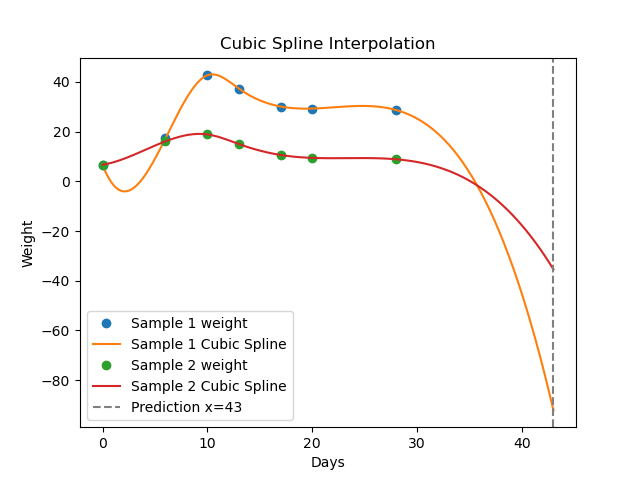
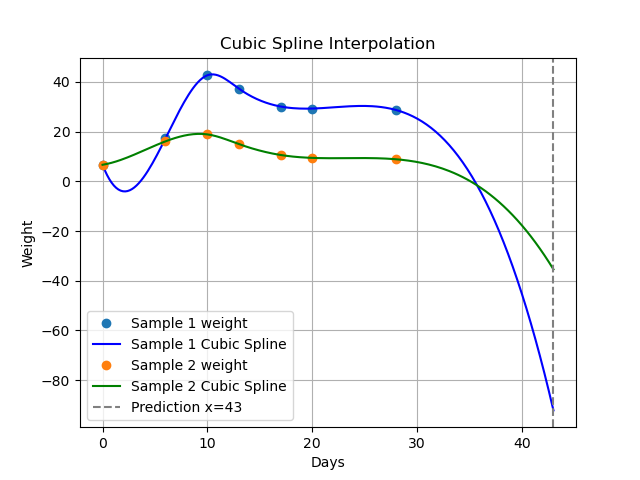
2

diff --git a/Programming/Chapter2/report.tex b/Programming/Chapter2/report.tex
@@ -30,6 +30,7 @@
 \maketitle
 
 \begin{abstract}
+  This report presents the design and implementation of interpolation algorithms, including Newton's interpolation, Hermite interpolation, and Bezier interpolation. The Runge phenomenon is discussed, and the Chebyshev interpolation method is applied to mitigate the issue. The Hermite interpolation algorithm is used to solve a problem involving a car's position and velocity. The interpolation algorithms are applied to fit data on larvae survival, and the cubic spline interpolator and exponential fitting are used to improve the results. Finally, the Bezier interpolation algorithm is used to fit a heart-shaped curve.
 \end{abstract}
 
 % ============================================
@@ -119,6 +120,7 @@ First, I generate the Chebyshev nodes in the interval \([-1, 1]\) and evaluate t
     \caption{Chebyshev interpolation}
     \label{fig:chebyshev}
 \end{figure}
+
 From the plot, we can observe that the interpolating polynomial using Chebyshev nodes exhibits less oscillation near the endpoints of the interval \([-1, 1]\) compared to the interpolating polynomial using equidistant nodes.
 
 \section{D. Hermite Interpolation}
@@ -131,12 +133,12 @@ I implemented the Hermite interpolation algorithm and following is the result:
 In the second question, I use the secant to subtitute the slope of the function, in other words, I use mean velocity to subtitute velocity. And by Langrange mean value theorem, we can know that the car reached 81.2615 feet/second at some moment between 6.678 and 6.679 seconds.
 
 \section{E. larvae survival}
-using the newton interpolation, we can get the result:
+First, I try to use Newton interpolation to fit the data. The result is shown in Figure \ref{fig:larvae28} and Figure \ref{fig:larvae43}.
 \begin{figure}[ht]
   \centering
   \begin{minipage}[b]{0.45\textwidth}
     \centering
-    \includegraphics[width=\textwidth]{figures/larave28days.png}
+    \includegraphics[width=\textwidth]{figures/larvae28days.png}
     \caption{Larvae's weight in 28 days with Newton interpolation}
     \label{fig:larvae28}
   \end{minipage}
@@ -147,13 +149,92 @@ using the newton interpolation, we can get the result:
     \caption{Larvae's weight in 43 days with Newton interpolation}
     \label{fig:larvae43}
   \end{minipage}
+  \vfill
+  \begin{minipage}[b]{0.45\textwidth}
+    \centering
+    \includegraphics[width=\textwidth]{figures/cubicspline.png}
+    \caption{Larvae's weight in 43 days with cubic spline interpolation}
+    \label{fig:larvaeCubicSpline}
+  \end{minipage}
+  \hfill
+  \begin{minipage}[b]{0.45\textwidth}
+    \centering
+    \includegraphics[width=\textwidth]{figures/expfit.png}
+    \caption{Exponential fitting}
+    \label{fig:expfit}
+  \end{minipage}
 \end{figure}
 
-From Figure \ref{fig:larvae28}, we can observe that overfitting occurs, and sample 1 even shows negative weight values in the first five days.\\
-In Figure \ref{fig:larvae43}, we can see that data in 43 day results in even greater deviations. This is because we should not use interpolation polynomials to estimate points beyond the range of our data.
+From Figure \ref{fig:larvae28}, we can observe that overfitting occurs, and sample 1 even shows negative weight values in the first five days.
 
-To fix this
+In Figure \ref{fig:larvae43}, we can see that weight in 43 day shows in even greater deviations. This is because we should not use interpolation polynomials to estimate points beyond the range of our data.
+
+To fix this, I tried to use the cubic spline interpolator, and the result is shown in Figure \ref{fig:larvaeCubicSpline}. It is much better than the Newton interpolator, but it still shows some problems.
+
+Finally, I found that the last part of the data can be better fitted using an exponential function plus a constant, as shown in Figure \ref{fig:expfit}. This method provides a better fit for the data, leading us to conclude that sample 1 will not die in 43 days, while sample 2 will.
+
+Unfortunately, I did not implement the cubic spline interpolator and exponential fit in this homework. These parts of the code were generated using Python with the assistance of ChatGPT-4.
+\section{F. Bezier Interpolation}
+First, I noticed that the function graph of the heart-shaped curve is symmetric about the y-axis, so I only considered the part where \( x \geq 0 \) during interpolation, and then obtained the entire heart-shaped curve through symmetry. At this point, the equation of the function can be simplified to \( x^2 + \left(\frac{3}{2}y - \sqrt{x}\right)^2 = 3 \).
+
+To correctly use Algorithm 2.74, I first parameterized the points on the heart-shaped curve:
+\[
+\begin{cases}
+  x = \sqrt{3} \sin(\pi t), \\
+  \frac{3}{2}y - \sqrt{x} = \sqrt{3} \cos(\pi t)
+\end{cases}
+\implies
+\begin{cases}
+  x = \sqrt{3} \sin(\pi t), \\
+  y = \frac{2}{3} \left( \sqrt{3} \cos(\pi t) + \sqrt{x} \right)
+\end{cases}
+\]
+where \( t \in [0, 1] \).
+
+Taking the derivatives, we get:
+\[
+\begin{cases}
+  \frac{dx}{dt} &= \sqrt{3} \cos(\pi t), \\
+  \frac{dy}{dt} &= -\frac{2}{3} \left( \sqrt{3} \sin(\pi t) + \frac{1}{2\sqrt{x}} \frac{dx}{dt} \right).
+\end{cases}
+\]
+
+Then I obtained the control points using Algorithm 2.74, including the characteristic points \((0, \pm \frac{2}{\sqrt{3}})\). The results for diffenrent \(m\) are shown in following figures, while Figure \ref{fig:heart} is the original curve.
+\begin{figure}[ht]
+  \centering
+  \begin{minipage}[b]{0.45\textwidth}
+    \centering
+    \includegraphics[width=\textwidth]{figures/bezier0.png}
+    \caption{Heart curve}
+    \label{fig:heart}
+  \end{minipage}
+  \hfill
+  \begin{minipage}[b]{0.45\textwidth}
+    \centering
+    \includegraphics[width=\textwidth]{figures/bezier1.png}
+    \caption{Heart curve with m = 10}
+    \label{fig:bezierm10}
+  \end{minipage}
+  \vfill
+  \begin{minipage}[b]{0.45\textwidth}
+    \centering
+    \includegraphics[width=\textwidth]{figures/bezier2.png}
+    \caption{Heart curve with m = 40}
+    \label{fig:bezierm40}
+  \end{minipage}
+  \hfill
+  \begin{minipage}[b]{0.45\textwidth}
+    \centering
+    \includegraphics[width=\textwidth]{figures/bezier3.png}
+    \caption{Heart curve with m = 160}
+    \label{fig:bezierm160}
+  \end{minipage}
+\end{figure}
+
+From the figures, we can see that when \( m = 10 \), the original curve is already well-fitted. However, when \( m = 40 \), due to improper handling of the boundary conditions at the upper and lower endpoints, some issues appear at these points. When \( m = 160 \), the fitted curve almost perfectly matches the original curve.
+
+Additionally, I selected the interpolation points uniformly according to the parameter \( t \), which is a relatively good choice. However, if the points were selected uniformly according to the curve length, better results could be obtained. Due to the difficulty of implementation, I did not achieve this.
 % ===============================================
 \section*{ \center{\normalsize {Acknowledgement}} }
-
+The Python code in the plotCode file was largely generated with the assistance of ChatGPT.
 \end{document}

diff --git a/Programming/Chapter2/plotCode/PlotE.py b/Programming/Chapter2/plotCode/PlotE.py
@@ -1,48 +1,49 @@
 import numpy as np
 import matplotlib.pyplot as plt
+from scipy.optimize import curve_fit
 
+# 定义指数函数 (exp_func) = a * exp(b * x) + c
+def exp_func(x, a, b, c):
+    return a * np.exp(b * x) + c
 
+# 输入天数和体重数据
 days = [0, 6, 10, 13, 17, 20, 28]
 sp1_weights = [6.67, 17.3, 42.7, 37.3, 30.1, 29.3, 28.7]
 sp2_weights = [6.67, 16.1, 18.9, 15.0, 10.6, 9.44, 8.89]
 
-# Divided differences provided
-divided_differences_sp1 = np.array([6.67, 1.77167, 0.457833, -0.124778, 0.013566, -0.000978085, 4.1477e-05])
-divided_differences_sp2 = np.array([6.67, 1.57167, -0.0871667, -0.0152729, 0.00257908, -0.000204804, 8.6768e-06])
+# 选取最后5天的数据
+days_last5 = np.array([10, 13, 17, 20, 28])
+sp1_weights_last5 = np.array([42.7, 37.3, 30.1, 29.3, 28.7])
+sp2_weights_last5 = np.array([18.9, 15.0, 10.6, 9.44, 8.89])
 
-# Function to calculate interpolation using divided differences
-def interpolate(x, x_values, divided_differences):
-    n = len(x_values)
-    result = divided_differences[0]
-    for i in range(1, n):
-        term = divided_differences[i]
-        for j in range(i):
-            term *= (x - x_values[j])
-        result += term
-    return result
+# 拟合指数模型到两个物种的体重数据
+params_sp1, _ = curve_fit(exp_func, days_last5, sp1_weights_last5)
+params_sp2, _ = curve_fit(exp_func, days_last5, sp2_weights_last5, maxfev=2000)
 
-# Generate a range of x values for plotting the interpolation
-x_range = np.linspace(0, 43, 1000)
+# 生成拟合的值用于绘图
+x_range = np.linspace(min(days_last5), 43, 1000)
+fitted_curve_sp1 = exp_func(x_range, *params_sp1)
+fitted_curve_sp2 = exp_func(x_range, *params_sp2)
 
-# Calculate interpolated values for both species using divided differences
-interp_sp1 = [interpolate(x, days, divided_differences_sp1) for x in x_range]
-interp_sp2 = [interpolate(x, days, divided_differences_sp2) for x in x_range]
-
-# Plot the larvae's weight data and interpolation for both species
+# 绘制原始数据和拟合的曲线
 plt.figure(figsize=(10, 6))
 
-# Plot for Species 1
-plt.plot(days, sp1_weights, 'bo', label='Sample 1 Data', color='blue')
-plt.plot(x_range, interp_sp1, label='Sample 1 Interpolation', linestyle='--', color='blue')
+# 绘制物种1的数据和拟合曲线
+plt.scatter(days_last5, sp1_weights_last5, color='blue', label='Species 1 Data (last 5 days)')
+plt.plot(x_range, fitted_curve_sp1, label='Sample 1 Fitted Exp. Function', linestyle='--', color='blue')
 
-# Plot for Species 2
-plt.plot(days, sp2_weights, 'go', label='Sample 2 Data', color='green')
-plt.plot(x_range, interp_sp2, label='Sample 2 Interpolation', linestyle='--', color='green')
+# 绘制物种2的数据和拟合曲线
+plt.scatter(days_last5, sp2_weights_last5, color='green', label='Species 2 Data (last 5 days)')
+plt.plot(x_range, fitted_curve_sp2, label='Sample 2 Fitted Exp. Function', linestyle='--', color='green')
 
-# Add titles and labels
-plt.title("Larvae's Weight in 43 days with Interpolated Functions")
+# 添加标题和标签
+plt.title("Exponential Fit")
 plt.xlabel("Days")
 plt.ylabel("Weight (g)")
 plt.legend()
 plt.grid(True)
 plt.show()
+
+# 输出拟合的参数
+print("Species 1 Fitted Parameters (a, b, c):", params_sp1)
+print("Species 2 Fitted Parameters (a, b, c):", params_sp2)

diff --git a/Programming/Chapter2/src/ProblemF.cpp b/Programming/Chapter2/src/ProblemF.cpp
@@ -1,9 +1,8 @@
-#include "Interpolator.hpp" // Assuming this header file includes the BezierInterpolator class
+#include "Interpolator.hpp"
 #include <cmath>
 #include <fstream>
 #include <vector>
 
-// Define a struct to store both the point and its tangent
 struct pointWithTangent {
     point position;
     point tangent;
@@ -13,7 +12,7 @@ struct pointWithTangent {
 
 std::vector<pointWithTangent> computeMarkerPointsWithTangents(int m) {
     std::vector<pointWithTangent> marker_points_with_tangents;
-    double t_step = 1.0 / m; // Divide the interval [0, 1] into m steps
+    double t_step = 1.0 / m;
 
     for (int i = 0; i <= m; ++i) {
         double t = i * t_step;
@@ -34,7 +33,6 @@ std::vector<pointWithTangent> computeMarkerPointsWithTangents(int m) {
     return marker_points_with_tangents;
 }
 
-// Function to compute control points for cubic Bezier curves using the points and their tangents
 std::vector<std::vector<point>> computeControlPoints(const std::vector<pointWithTangent>& marker_points_with_tangents) {
     std::vector<std::vector<point>> control_points_sets;
 

diff --git a/Programming/Chapter2/plotCode/PlotEspline.py b/Programming/Chapter2/plotCode/PlotEspline.py
@@ -26,12 +26,13 @@ y_sp1 = cs_sp1(x_new)
 y_sp2 = cs_sp2(x_new)
 
 plt.plot(days, sp1_weights, 'o', label='Sample 1 weight')
-plt.plot(x_new, y_sp1, label='Sample 1 Cubic Spline')
+plt.plot(x_new, y_sp1, color = 'b', label='Sample 1 Cubic Spline')
 plt.plot(days, sp2_weights, 'o', label='Sample 2 weight')
-plt.plot(x_new, y_sp2, label='Sample 2 Cubic Spline')
+plt.plot(x_new, y_sp2, color = 'g', label='Sample 2 Cubic Spline')
 plt.axvline(x=43, color='gray', linestyle='--', label='Prediction x=43')
 plt.legend()
 plt.xlabel('Days')
 plt.ylabel('Weight')
 plt.title('Cubic Spline Interpolation')
+plt.grid(True)
 plt.show()

diff --git a/Programming/Chapter2/src/ProblemE.cpp b/Programming/Chapter2/src/ProblemE.cpp
@@ -23,8 +23,6 @@ int main() {
     std::vector<double> sp1_weights = {6.67, 17.3, 42.7, 37.3, 30.1, 29.3, 28.7};
     std::vector<double> sp2_weights = {6.67, 16.1, 18.9, 15.0, 10.6, 9.44, 8.89};
 
-    double day_43 = 43;
-
     predictSurvival(days, sp1_weights, "Sp1", 43);
     predictSurvival(days, sp2_weights, "Sp2", 43);
 
